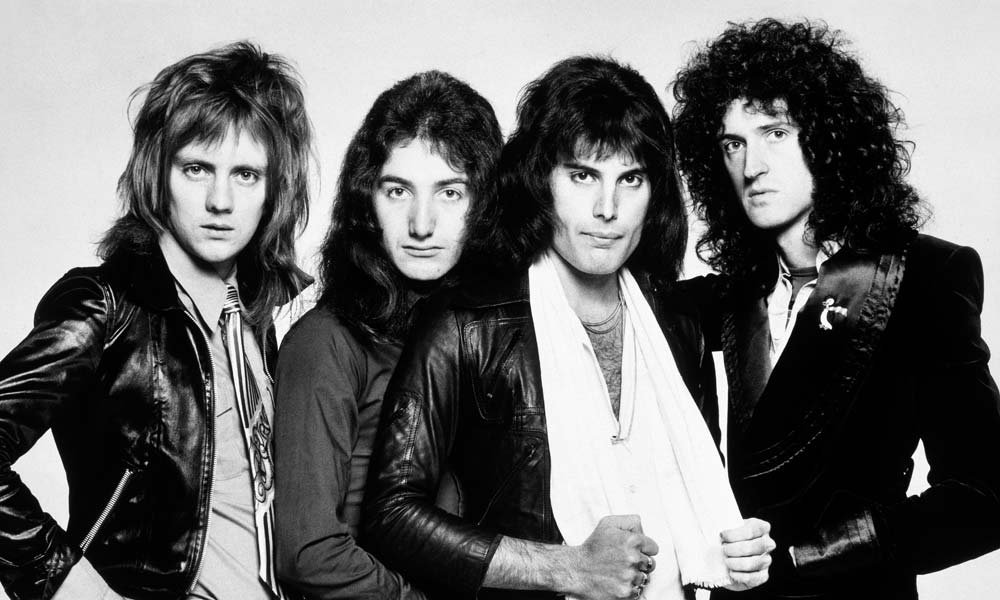
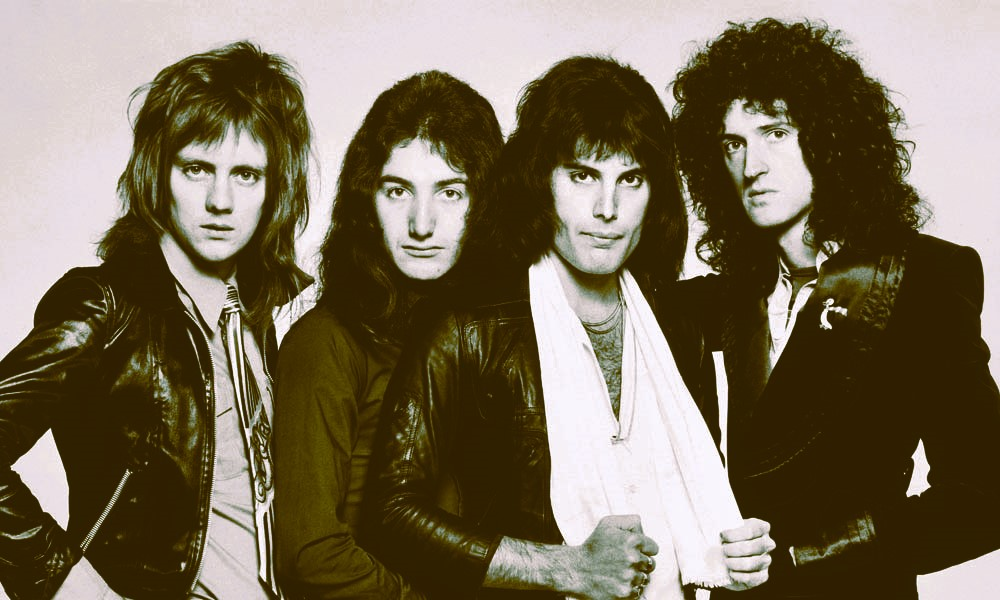
modificando colores

diff --git a/homenaje.css b/homenaje.css
@@ -1,6 +1,6 @@
 
     main{
-    background-color: #eee;
+    background-color: #e1d5d9;
     font-family:"Segoe UI";
     padding:10px;
     }
@@ -14,7 +14,7 @@
     }
     
     .imagen{
-        background-color: white;
+        background-color: rgb(255,255,255,0.5);
         height:680px auto;
         margin: auto 20px;
         text-align:center;
